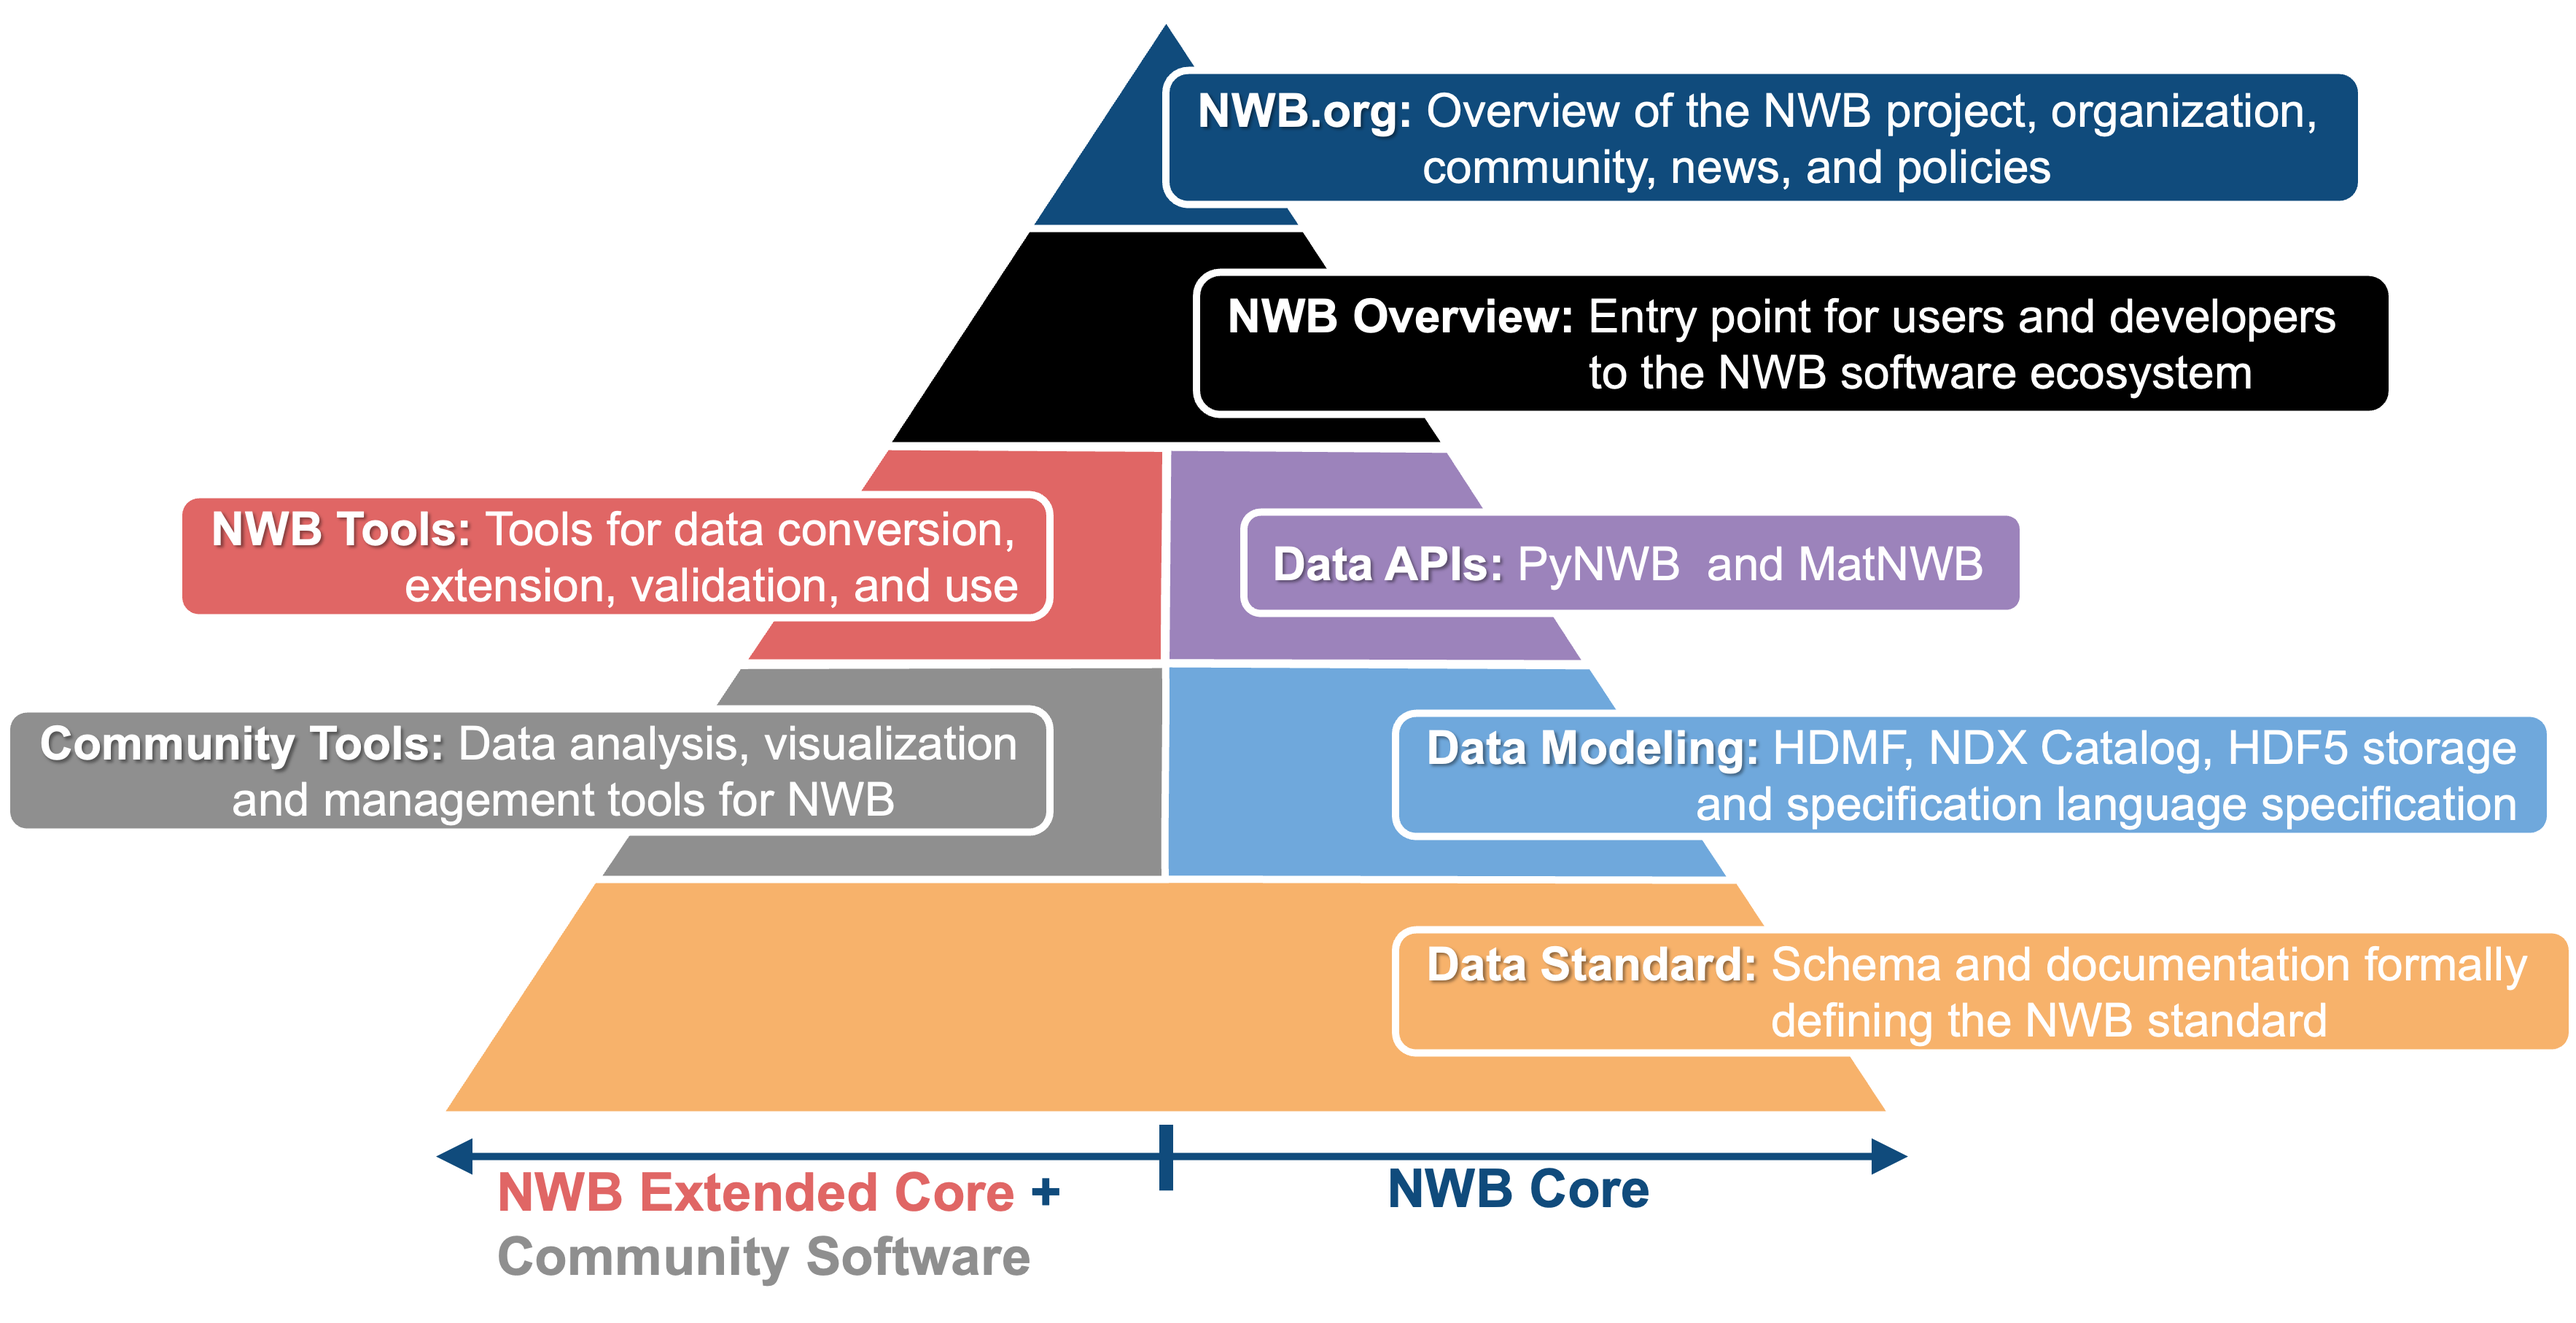
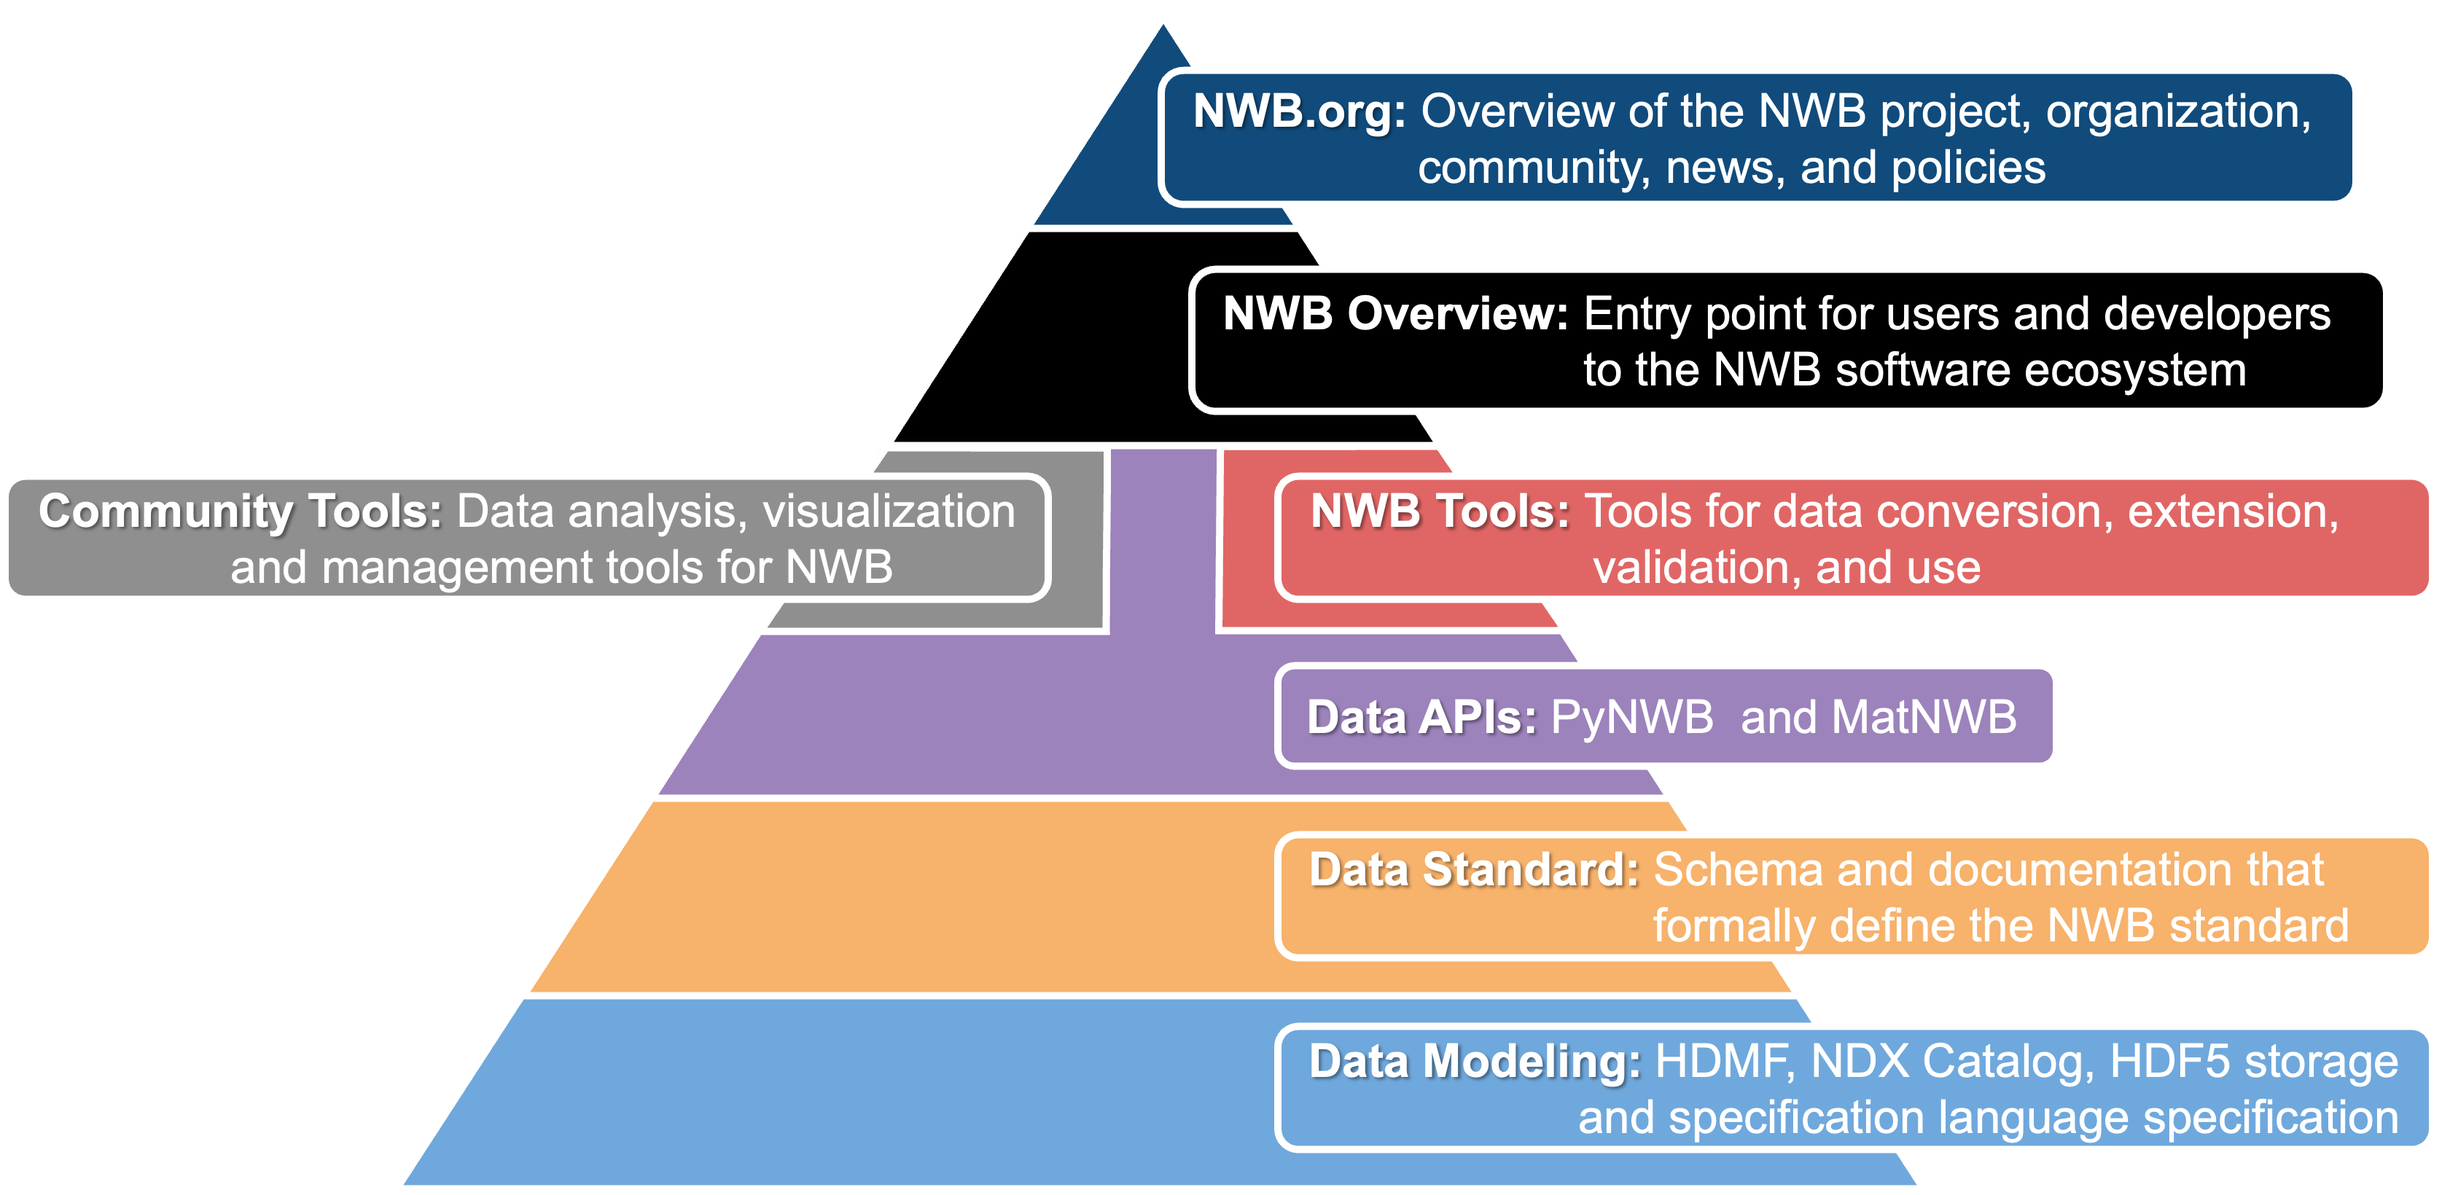
Moved the docs overview, updated the figure and text, and synced with the main branch

diff --git a/docs/source/intro_to_nwb/4_apis.rst b/docs/source/intro_to_nwb/4_apis.rst
@@ -13,13 +13,46 @@ serves as the base class (superclass) for more specialized time series classes, 
 are defined in the NWB schema.
 
 Next steps
-----------
-See the :pynwb-docs:`PyNWB <>` and  :matnwb-src:`MatNWB <>` documentation to learn more about the tools and how to install the APIs.
+==========
 
-To learn how to convert your data to NWB, See :ref:`conversion_home`.
+To learn more about:
 
-To learn more about the broad range of core tools available for NWB see the :ref:`core-tools-home` and
-:ref:`analysistools-home` sections.
+* how to install and use the APIs, see the :pynwb-docs:`PyNWB <>` and  :matnwb-src:`MatNWB <>` documentation
+* how to convert your data to NWB, see :ref:`conversion_home`.
+* the broad range of core tools available for NWB see the :ref:`core-tools-home`
+* community tools available for NWB see the :ref:`analysistools-home` section.
+* the NWB schema, please see the :nwb-schema-docs:`NWB Schema <>` documentation.
 
-To learn more about the NWB schema, please see the :nwb-schema-docs:`NWB Schema <>` documentation.
+Navigating the NWB Documentation
+--------------------------------
 
+NWB defines a large software ecosystem and as such there are many different documentation resources available depending
+on what aspect of NWB and what type of information you want to learn more about. The following sketch provides an
+overview of the main areas of the NWB documentation. As we navigate from the top of the pyramid to the
+bottom, the level of detail and depth of the documentation increases. Most end-users will typically only interact with
+the top half of the pyramid. If you are new to NWB and want to learn more; good news you are at the right place!
+
+.. image:: ../img/nwb_documentation_overview.png
+    :class: align-center
+    :width: 600
+
+At the top (dark blue), we have the :nwb-main:`NWB.org <>` website, which focuses on the NWB project at large and provides
+information about the overall organization, goals, community, and policies of the NWB project and provides a first
+entry point to NWB.
+
+Next we have the :ref:`NWB Overview <main-home>` (i.e., this website) (black), which serves as an entry point for
+researchers and developers interested in using NWB and in learning more about the NWB software ecosystem.
+
+A growing collection of :ref:`analysistools-home` (gray) developed by the neurophysiology community along with a
+broad range of :ref:`core tools <core-tools-home>` (red) help users with conversion, extension, validation and use of
+NWB data files. Commonly, these tools build on the :pynwb-docs:`PyNWB (Python) <>` and :matnwb-docs:`MatNWB (Matlab) <>`
+reference APIs (lilac) to read and write NWB files. Each of the APIs and tools provides their own in-depth
+tutorials and documentation to help guide users in adopting and using the software.
+
+Underlying all of this, is the :nwb-schema-docs:`NWB Format Specification <>`, which formally
+defines and governs the NWB data standard.
+
+Last but not least, NWB provides and builds on a broad range of data modeling tools and technologies (light blue),
+e.g., :hdmf-docs:`HDMF <>` and the :hdmf-docs:`HDMF Common Schema<>`, the :ndx-catalog:`Neurodata Extension Catalog <>`,
+as well as the :nwb-schema-language-docs:`specification language <>` and :nwb-storage-docs:`data storage <>`
+specifications.

diff --git a/docs/source/index.rst b/docs/source/index.rst
@@ -40,42 +40,6 @@ for each of those tasks and point you to the best tools to use for your preferre
 
     nwb_source_codes
 
-Navigating the NWB Documentation
---------------------------------
-
-NWB defines a large software ecosystem and as such there are many different documentation resources available depending
-on what aspect of NWB and what type of information you want to learn more about. The following sketch provides an
-overview of the main areas of the NWB documentation. As we navigate from the top of the pyramid to the
-bottom, the level of detail and depth of the documentation increases. Most end-users will typically only interact with
-the top half of the pyramid. If you are new to NWB and want to learn more; good news you are at the right place!
-
-.. image:: img/nwb_documentation_overview.png
-    :class: align-center
-    :width: 600
-
-At the top (dark blue), we have the :nwb-main:`NWB.org <>` website, which focuses on the NWB project at large and provides
-information about the overall organization, goals, community, and policies of the NWB project and provides a first
-entry point to NWB.
-
-Next we have the :ref:`NWB Overview <main-home>` (i.e., this website) (black), which serves as an entry point for
-researchers and developers interested in using NWB and in learning more about the NWB software ecosystem.
-
-The :pynwb-docs:`PyNWB (Python) <>` and :matnwb-docs:`MatNWB (Matlab) <>` reference APIs for NWB (lilac) provide full
-support for reading and writing all components of the NWB standard. In addition, NWB provides a broad range of
-:ref:`core tools <core-tools-home>` (red) to facilitate conversion, extension, validation and use of NWB data files.
-Each of the APIs and tools provides their own in-depth tutorials and documentation to help guide users in adopting
-and using the software.
-
-The core NWB software then builds on a broad range of NWB data modeling tools and technologies (light blue),
-e.g., :hdmf-docs:`HDMF <>` and the :ndx-catalog:`Neurodata Extension Catalog <>`.
-
-Underlying all of this, is the :nwb-schema-docs:`NWB Format Specification <>`, which---in conjunction with the definition
-of the NWB  :nwb-schema-language-docs:`specification language <>` and :nwb-storage-docs:`data storage <>`---formally
-defines and governs the NWB data standard.
-
-Last, but not least, there is a growing collection of :ref:`analysistools-home` (gray) developed by the broader
-neurophysiology community that support NWB.
-
 
 .. Indices and tables
 .. ==================
